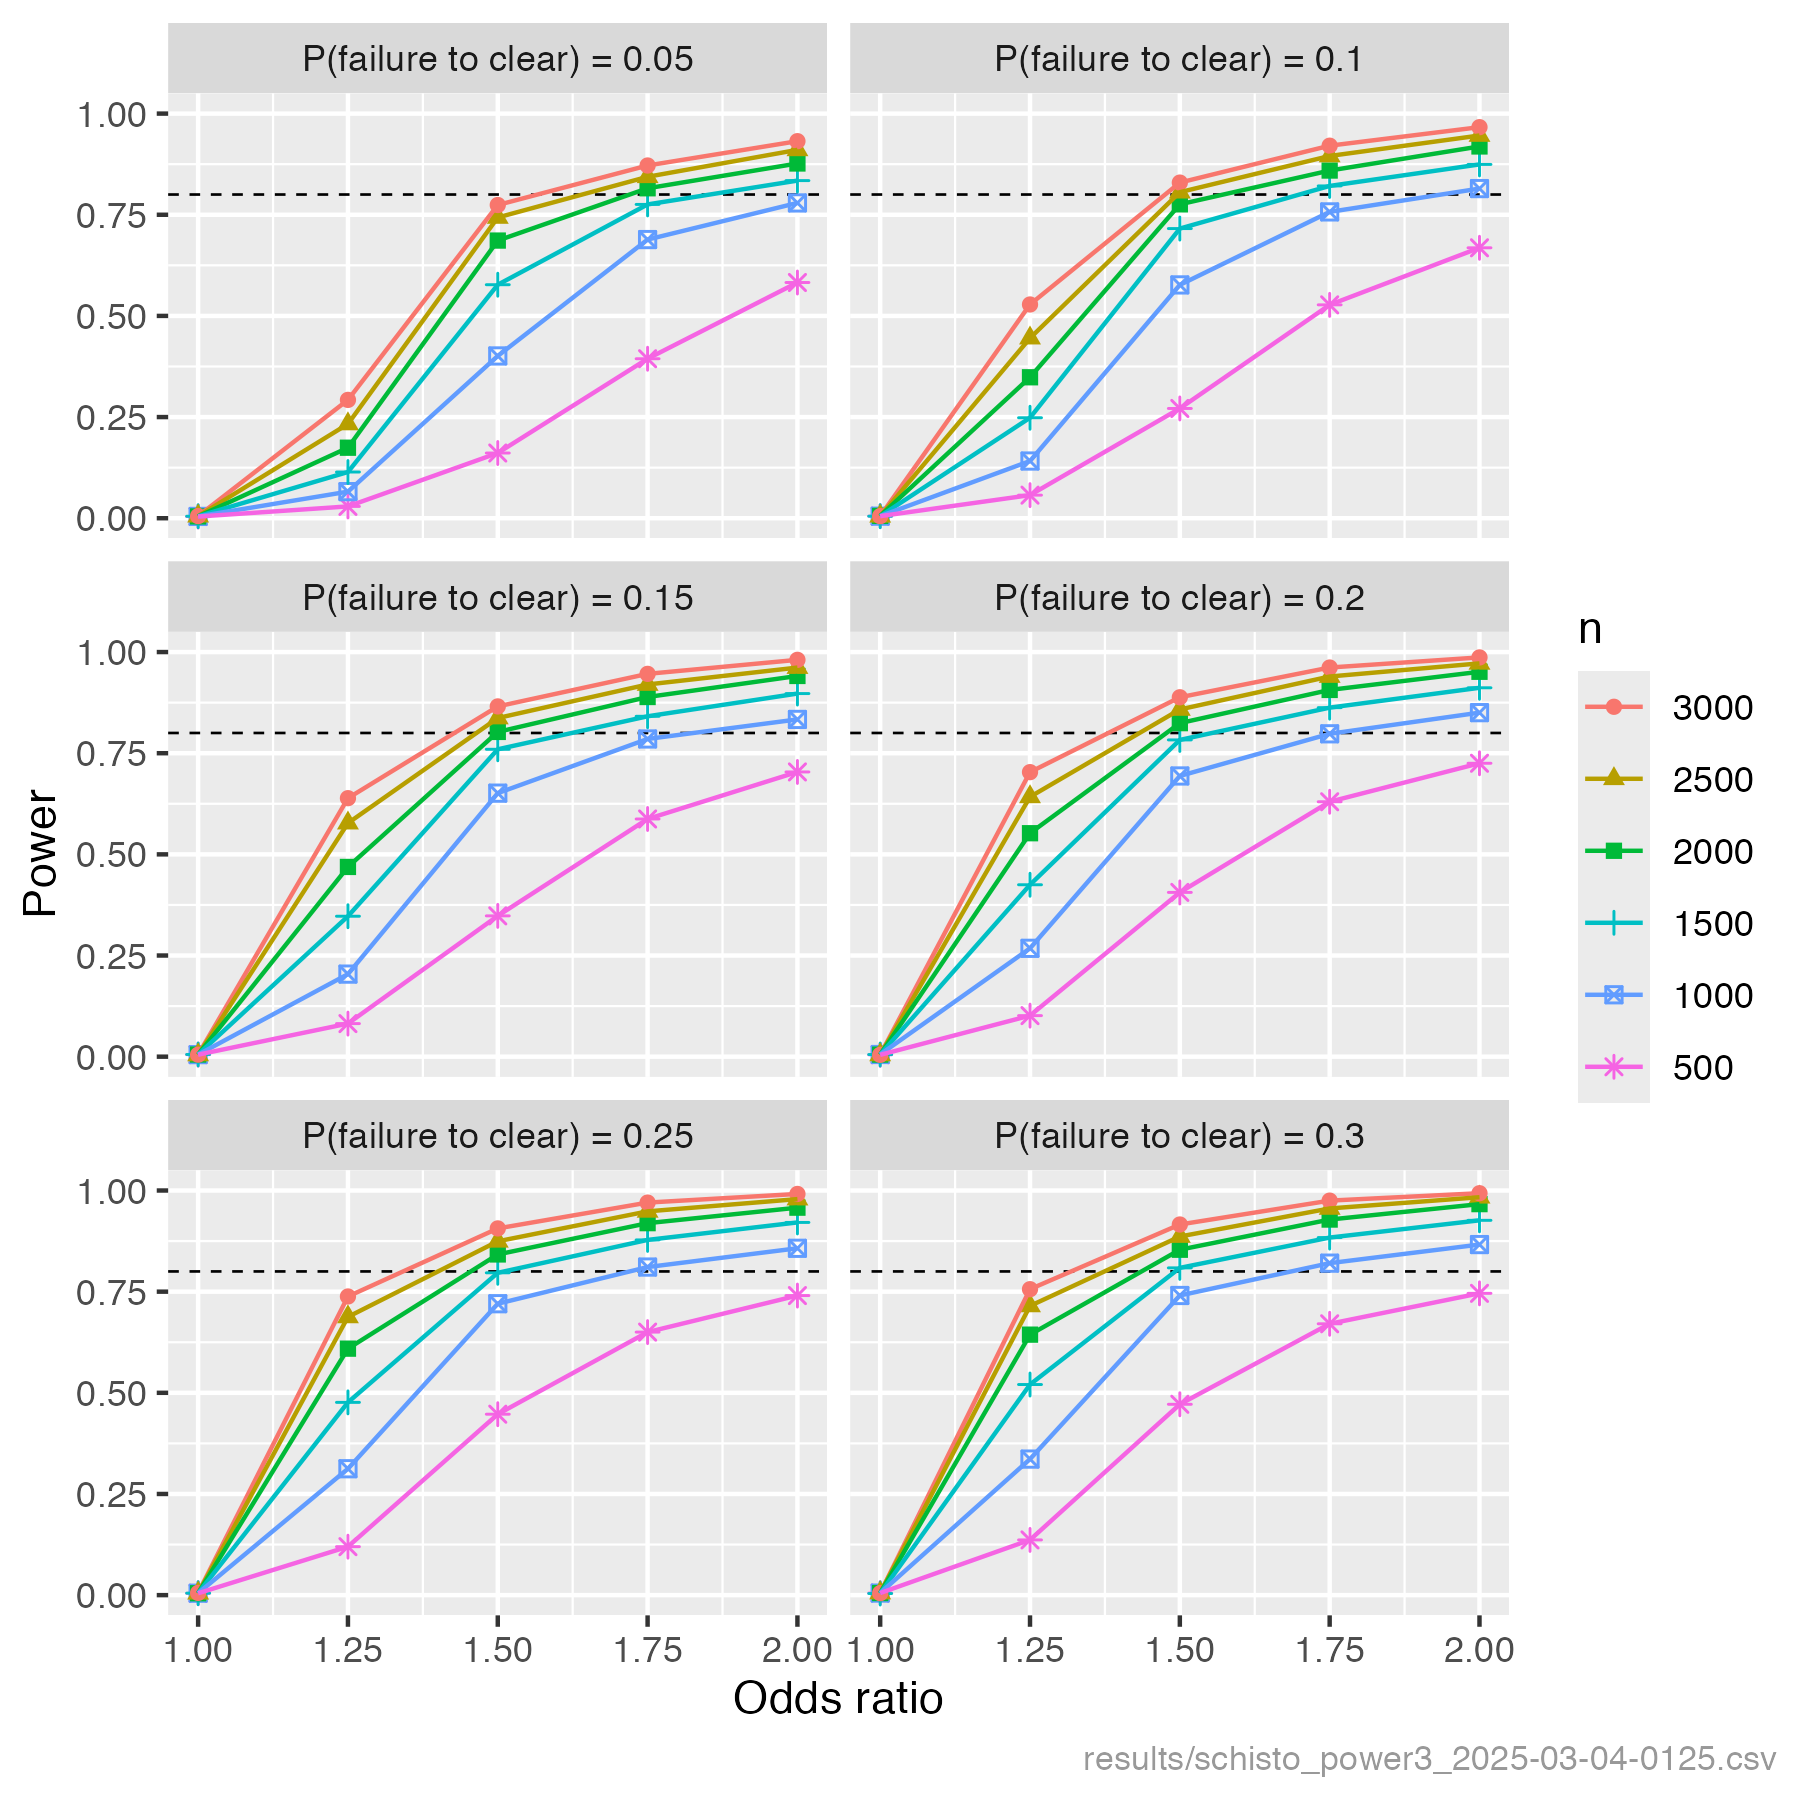
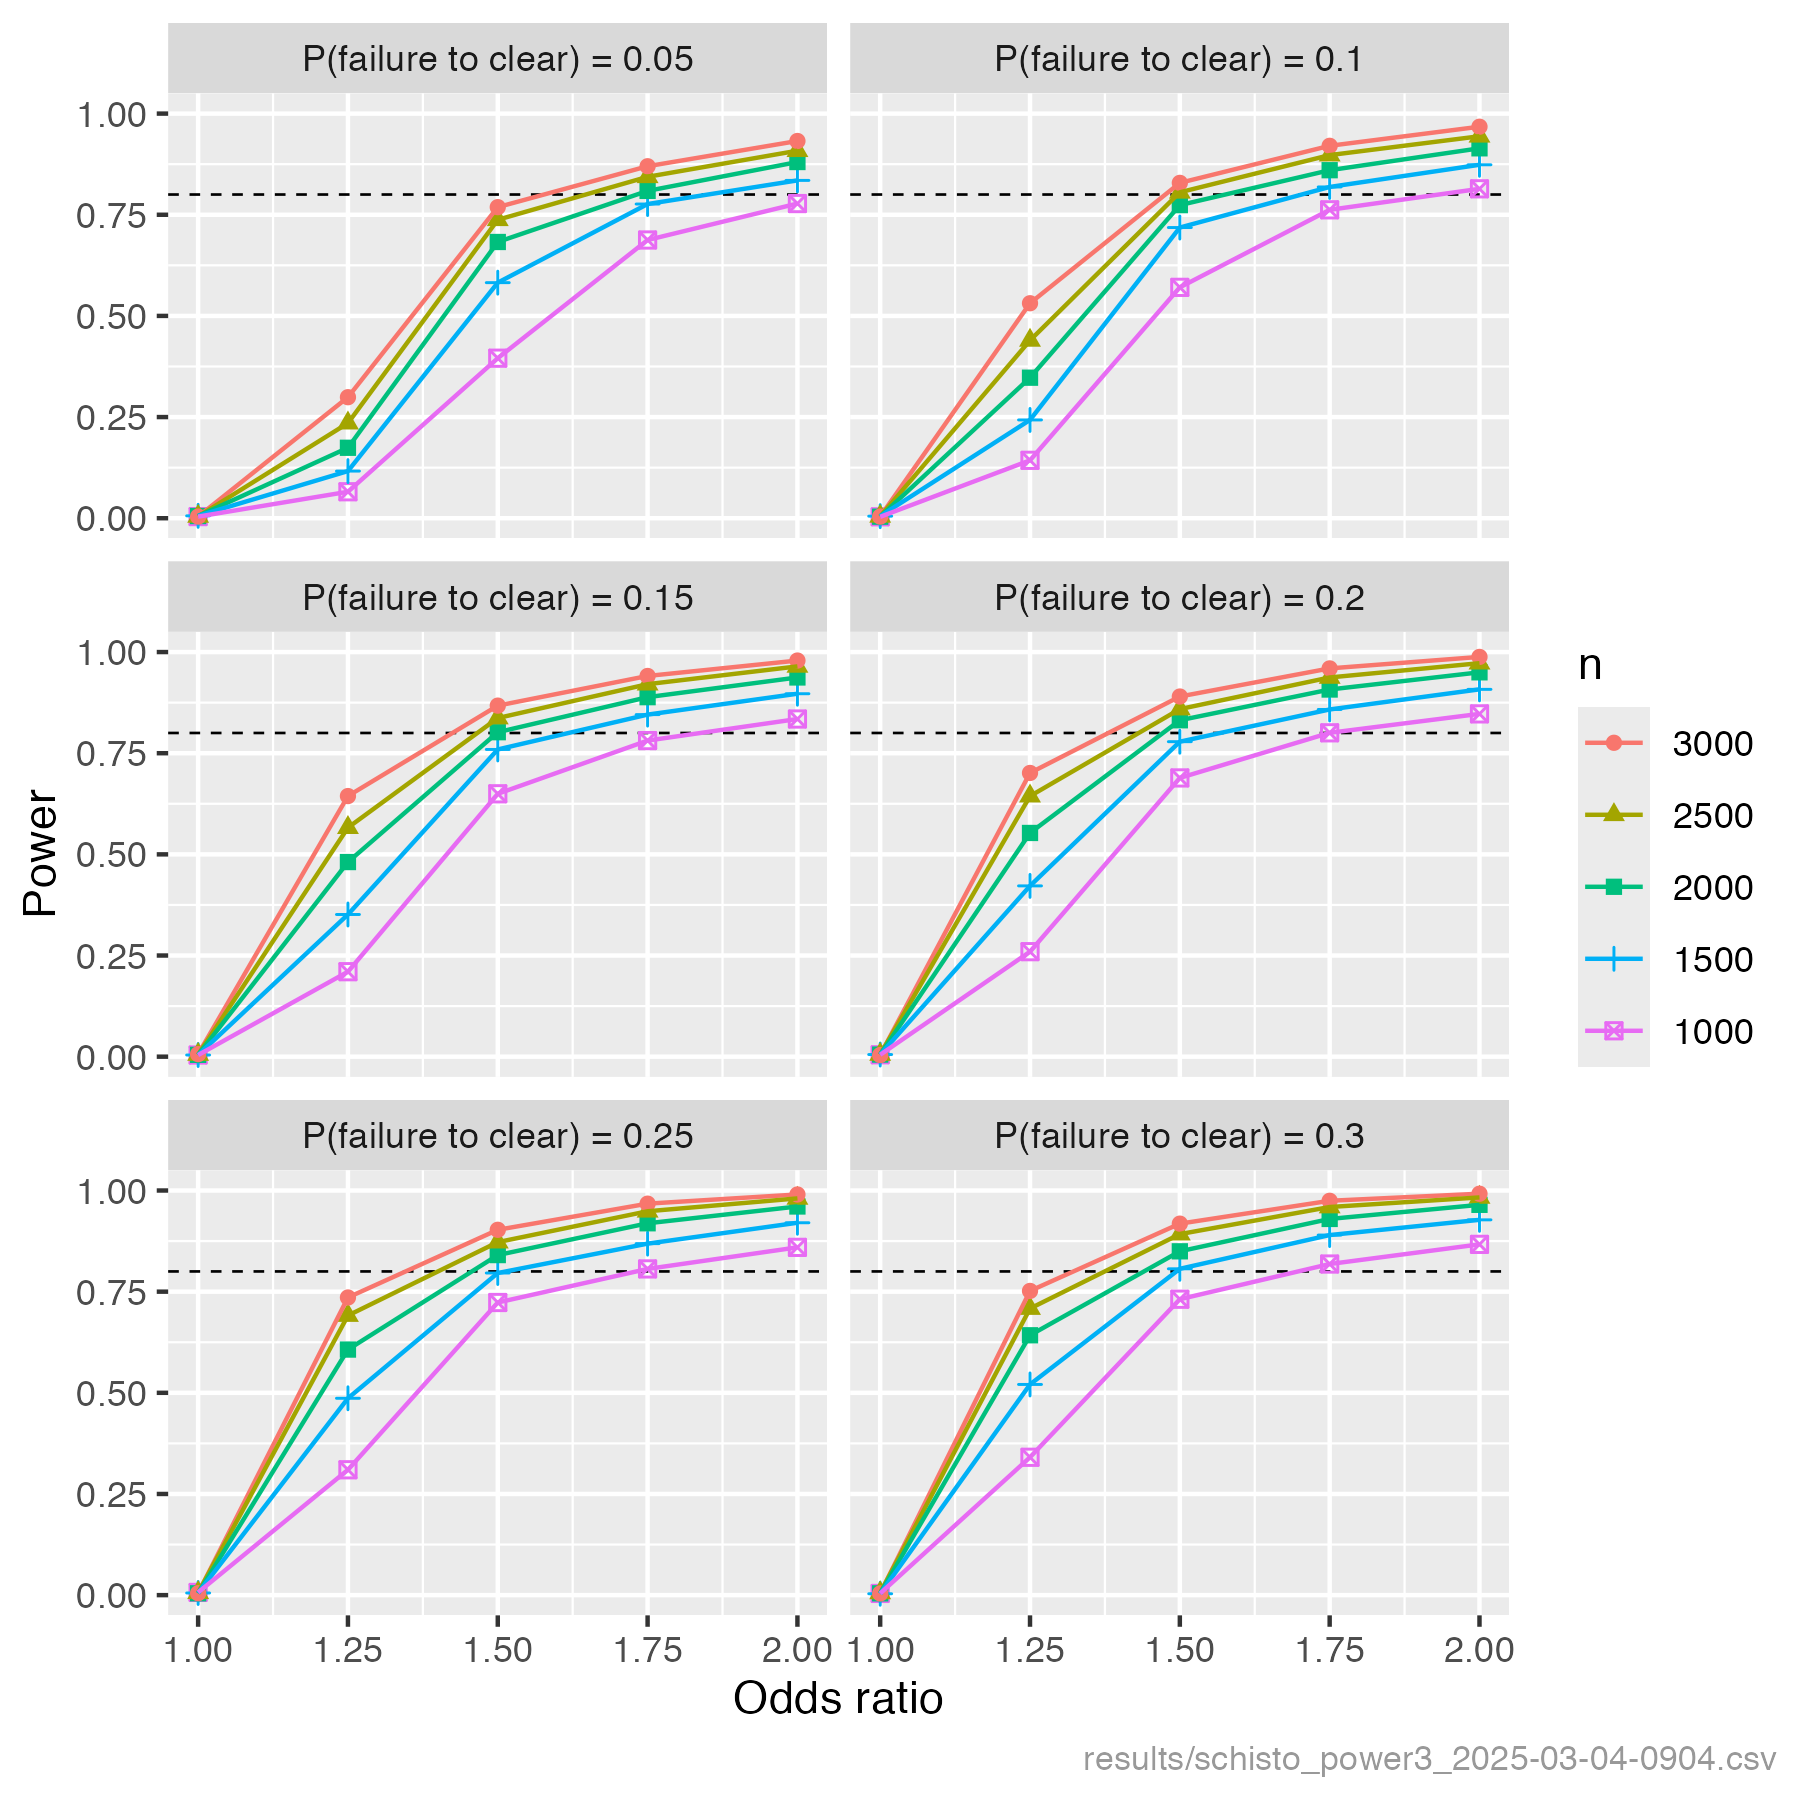
Fix bugs in presentation

diff --git a/README.md b/README.md
@@ -24,7 +24,7 @@
 
  ### Methods
 
- The aim of this power analysis is to estimate power to detect drivers of praziquantel treatment failure in individuals infected with schistosomiasis. This is a simulation-based power analysis, where the study data is simulated and analysed multiple times under varying study design scenarios, and power is estimated as the proportion of simulated analyses that achieve the desired outcome (detecting a true driver of treatment failure). The association between the outcome (treatment failure) and each driver is estimated and tested in a multivariable GLM. For this analysis, power is defined as the proportion of drivers that are significantly associated with the outcome, averaged across 2000 simulated data analyses per scenario.
+ The aim of this power analysis is to estimate power to detect drivers of praziquantel treatment failure in individuals infected with schistosomiasis. This is a simulation-based power analysis, where the study data is simulated and analysed multiple times under varying study design scenarios, and power is estimated as the proportion of simulated analyses that achieve the desired outcome (detecting a true driver of treatment failure). The association between the outcome (treatment failure) and each driver is estimated and tested in a multivariable GLM. For this analysis, power is defined as the proportion of drivers that are significantly associated with the outcome, averaged across 1000 simulated data analyses per scenario.
 
  The following assumptions are made:
 - 10 drivers are associated with the outcome, of which 3 are binary and 7 continuous. The prevalences of the binary drivers are: 0.5, 0.2, 0.2, representing  malaria, soil-transmitted helminths, hybrid/resistance presence .
@@ -32,7 +32,7 @@
  - In order to control inflation of the number of false positive results due to multiple testing of 10 drivers, the significance threshold of 0.05 is Bonferroni-adjusted to 0.005, i.e. a driver is significant if P < 0.005.
 
  We explore the effect on power of varying the following study design choices/assumptions:
- - Sample size (number of infected and treated individuals): 500, 1000, 1500, 2000, 2500, 3000.
+ - Sample size (number of infected and treated individuals): 1000, 1500, 2000, 2500, 3000.
  - The proportion of these that fail to clear: 0.05, 0.1, 0.15, 0.2, 0.25, 0.3.
  - The strength of association between each driver and failure to clear, defined as an odds ratio for binary drivers and as an odds ratio per standard deviation unit for continuous drivers: 1.25, 1.5, 1.75, 2. To give a sense of what these effect sizes mean:
    - If a binary driver has an odds ratio of 1.5, then if 5% of people fail to clear in the absence of a driver, that proportion will be 7.3% among those who are exposed to the driver. If the prevalence of failure to clear is 25% without the driver, it will be 33% with the driver.
@@ -48,16 +48,16 @@
 
  ### Methods
 
- The aim of this power analysis is to estimate power to detect community-level drivers of schistosomiasis infection, and the expected margin of error around community-level driver odds ratio estimates. This is a simulation-based power analysis, where the study data is simulated and analysed multiple times under varying study design scenarios, and power is estimated as the proportion of simulated analyses that achieve the desired outcome (detecting a true driver of infection). The association between the outcome (infection) and each driver is estimated and tested in a multivariable GLMM. For this analysis, power is defined as the proportion of drivers that are significantly associated with the outcome, averaged across 1000 simulated data analyses per scenario.
+ The aim of this power analysis is to estimate power to detect community-level drivers of schistosomiasis infection, and the expected margin of error around community-level driver odds ratio estimates. This is a simulation-based power analysis, where the study data is simulated and analysed multiple times under varying study design scenarios, and power is estimated as the proportion of simulated analyses that achieve the desired outcome (detecting a true driver of infection). The association between the outcome (infection) and each driver is estimated and tested in a multivariable GLMM. For this analysis, power is defined as the proportion of drivers that are significantly associated with the outcome, averaged across 500 simulated data analyses per scenario.
 
  The following assumptions are made:
 - 4 continuous drivers are associated with the outcome.
  - The drivers are correlated with each other, with a common correlation coefficient of 0.25. We don’t know what the true correlation is among drivers, but moderate correlations are likely and neglecting them will give optimistic power estimates.
- - Infection prevalence varies among communities with a logit-normal variance of 2.73.
+ - Log odds of infection prevalence varies among communities with a variance of 2.73.
  - In order to control inflation of the number of false positive results due to multiple testing of 4 drivers, the significance threshold of 0.05 is Bonferroni-adjusted to 0.0125, i.e. a driver is significant if P < 0.0125.
 
  We explore the effect on power of varying the following study design choices/assumptions:
- - Total sample size: 500, 1000, 1500, 2000.
+ - Total sample size: 1000, 1500, 2000, 2500, 3000.
  - Community sample size (number communities sampled): 25, 50, 100.
  - Prevalence of infection: 0.1, 0.5.
  - The strength of association between each driver and failure to clear, defined as an odds ratio per standard deviation unit for continuous community-level drivers: 1.25, 1.5, 1.75, 2.
